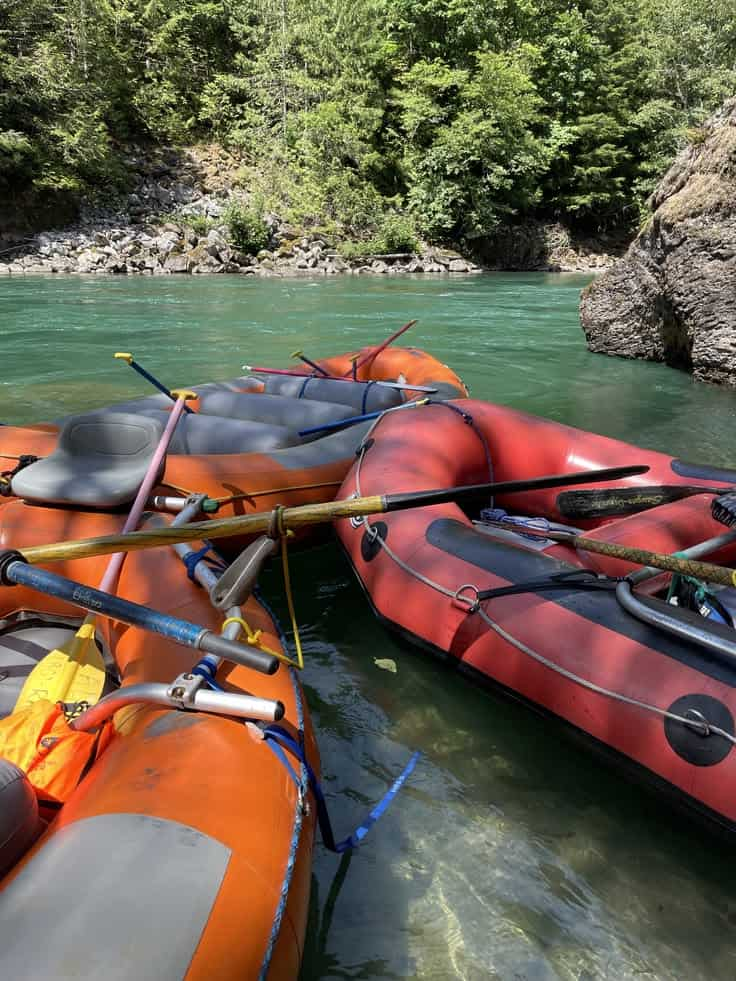
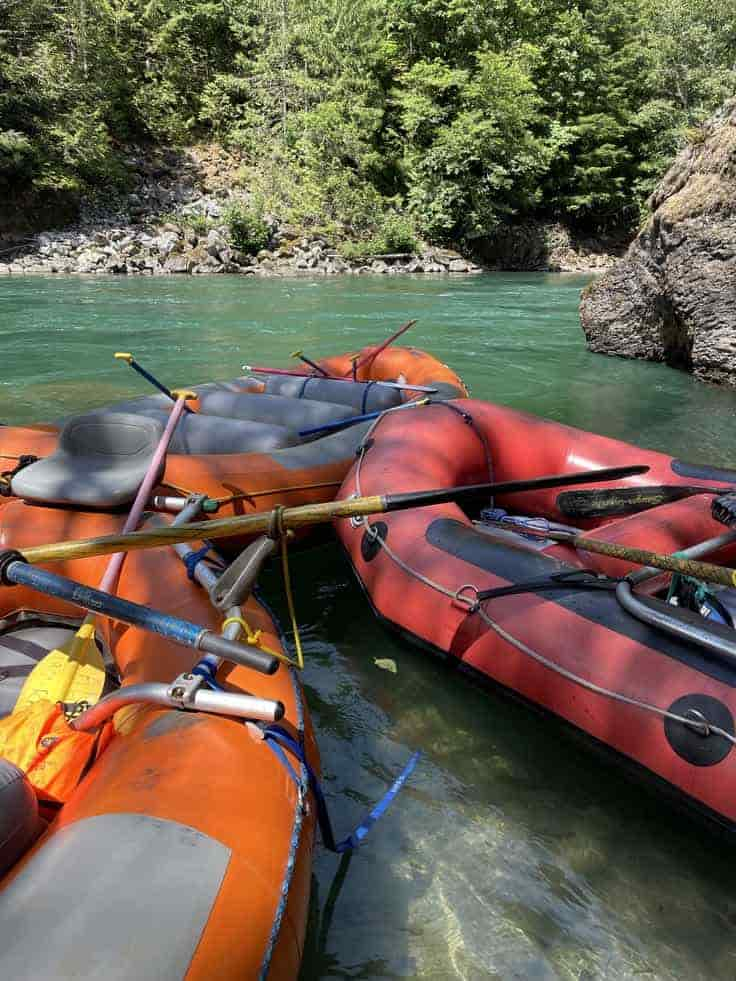
week6- transferred resize

diff --git a/wwr/about.html b/wwr/about.html
@@ -26,7 +26,7 @@
 
     <main>
         <div class="hero">
-            <img src="images/hero-rafting.jpg"
+            <img src="images/hero-rafting.webp"
               alt="Rafters in yellow helmets paddling through white water rapids">
             <h1>About Wild Water Rafting</h1>
             <article>
@@ -61,22 +61,22 @@
                 </figure>
 
                 <figure>
-                    <img src="images/adventure-2.jpg" alt="Rafting adventure at sunset">
+                    <img src="images/adventure-2.webp" alt="Rafting adventure at sunset">
                     <figcaption>Sunset Way</figcaption>
                 </figure>
 
                 <figure>
-                    <img src="images/adventure-3.jpg" alt="Group rafting down the river">
+                    <img src="images/adventure-3.webp" alt="Group rafting down the river">
                     <figcaption>Half-Day Adventure</figcaption>
                 </figure>
 
                 <figure>
-                    <img src="images/adventure-4.jpg" alt="Group of rafters enjoying the river">
+                    <img src="images/adventure-4.webp" alt="Group of rafters enjoying the river">
                     <figcaption>Paddle Group</figcaption>
                 </figure>
 
                 <figure>
-                    <img src="images/adventure-5.jpg" alt="Rafters going through a rapid">
+                    <img src="images/adventure-5.webp" alt="Rafters going through a rapid">
                     <figcaption>Thunder Rapids</figcaption>
                 </figure>
             </div>

diff --git a/wwr/trips.html b/wwr/trips.html
@@ -33,7 +33,7 @@
                 beginner trips to exciting advanced rapids.</p>
 
             <article class="trip-card">
-                <img src="images/trip-1.jpg" alt="Guide giving instructions to the group">
+                <img src="images/trip-1.webp" alt="Guide giving instructions to the group">
                 <h3>Beginner Half-Day Trip</h3>
                 <p>This trip is perfect for families, beginners, and anyone who wants to enjoy a
                     relaxing rafting adventure. Paddle through calm waters while learning basic

diff --git a/wwr/index.html b/wwr/index.html
@@ -26,7 +26,7 @@
 
     <!-- Hero section: outside <main> so it spans the full page width -->
     <section class="home-hero">
-        <img src="images/hero-home.webp"
+        <img src="images/hero-home.jpg"
           alt="Group enjoying a guided whitewater rafting adventure on a scenic river">
 
         <h1>Adventure Begins on the River</h1>
